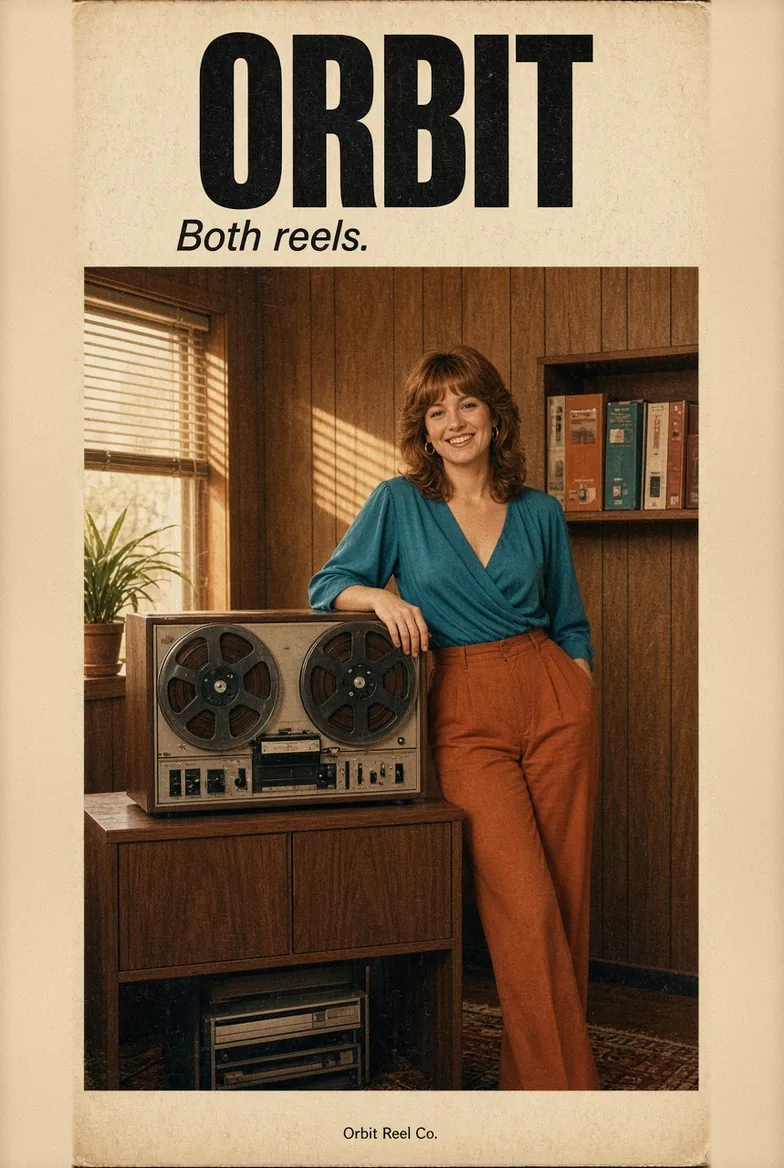
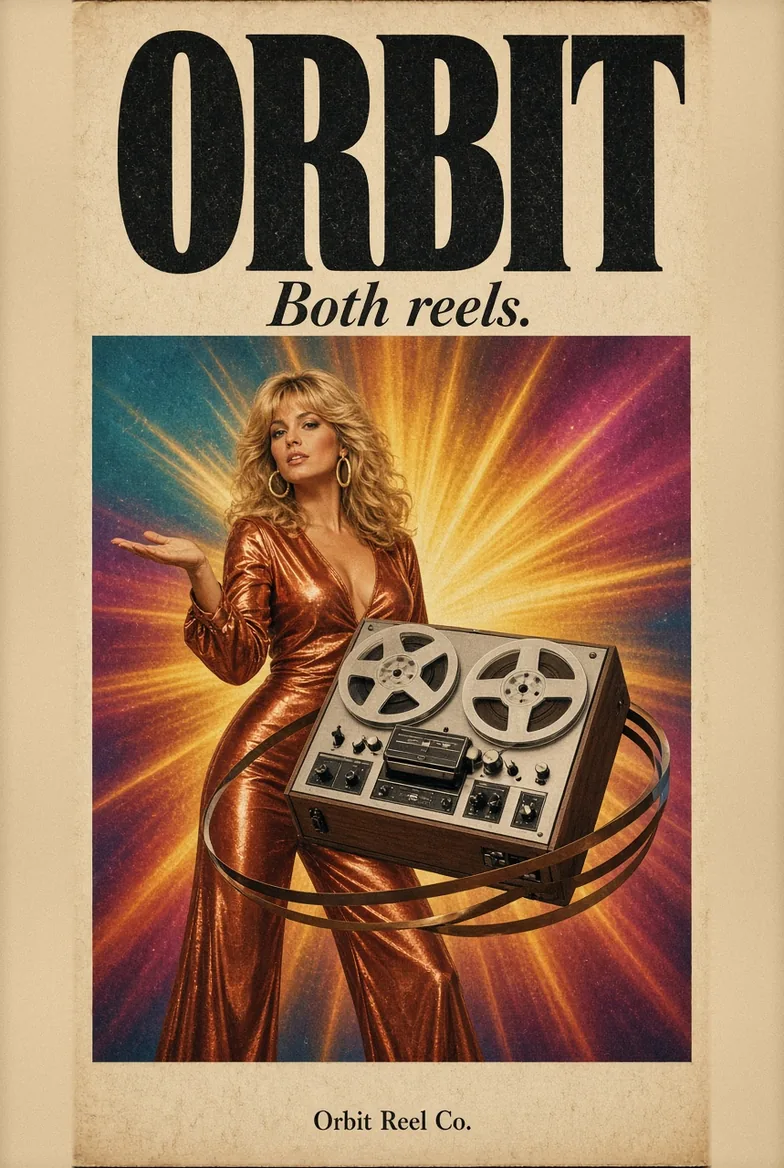
Collection: a more spectacular Orbit Reel Co. page.
The open-reel machine now floats like a planet against a gold starburst, with the same short invented-brand copy.

diff --git a/preview-wy4u7thzbj5o/collection/index.html b/preview-wy4u7thzbj5o/collection/index.html
@@ -184,13 +184,13 @@
       <figure class="piece">
         <div class="piece-pic">
           <picture>
-            <source srcset="../ads/img/ad-orbit-reel.webp" type="image/webp">
-            <img src="../ads/img/ad-orbit-reel.jpg" width="784" height="1168" alt="Vintage magazine ad headed ORBIT / Both reels. A woman in a teal wrap blouse and rust trousers stands with a walnut open-reel tape machine. The page is signed Orbit Reel Co." loading="lazy" decoding="async">
+            <source srcset="../ads/img/ad-orbit-reel.webp?v=1" type="image/webp">
+            <img src="../ads/img/ad-orbit-reel.jpg?v=1" width="784" height="1168" alt="Vintage magazine ad headed ORBIT / Both reels. A woman in a metallic copper jumpsuit presents a walnut open-reel tape machine that floats in mid-air with tape curling around it like rings, against a gold starburst and a colourful cosmic backdrop. The page is signed Orbit Reel Co." loading="lazy" decoding="async">
           </picture>
         </div>
         <p class="kicker">Magazine ad · Orbit Reel Co.</p>
         <h2 class="piece-h">Both reels.</h2>
-        <p class="piece-note">A walnut open-reel machine, and almost no copy. Orbit Reel Co. is an invented name from the crate.</p>
+        <p class="piece-note">A walnut open-reel machine floating like a planet against a starburst, and almost no copy. Orbit Reel Co. is an invented name from the crate.</p>
       </figure>
       <figure class="piece">
         <div class="piece-pic">

diff --git a/preview-wy4u7thzbj5o/ads/ads-data.js b/preview-wy4u7thzbj5o/ads/ads-data.js
@@ -146,9 +146,9 @@ window.VINYL_ADS = {
       alt: "Vintage magazine ad headed JBL — The new Lancer 66. A woman in a mustard dress leans on a stack of components beside a JBL Lancer 66 loudspeaker. The headline at the bottom reads Feel the Music."
     },
     "orbit-reel": {
-      color: "#2f6f6f", img: "ad-orbit-reel", width: 784, height: 1168,
+      color: "#c45c26", img: "ad-orbit-reel", width: 784, height: 1168, v: 1,
       label: "Vintage Orbit Reel Co. magazine advertisement",
-      alt: "Vintage magazine ad headed ORBIT / Both reels. A woman in a teal wrap blouse and rust trousers stands with a walnut open-reel tape machine. The page is signed Orbit Reel Co."
+      alt: "Vintage magazine ad headed ORBIT / Both reels. A woman in a metallic copper jumpsuit presents a walnut open-reel tape machine that floats in mid-air with tape curling around it like rings, against a gold starburst and a colourful cosmic backdrop. The page is signed Orbit Reel Co."
     },
     "fisher-434b": {
       color: "#5a7a4a", img: "ad-fisher-434b", width: 784, height: 1168,
